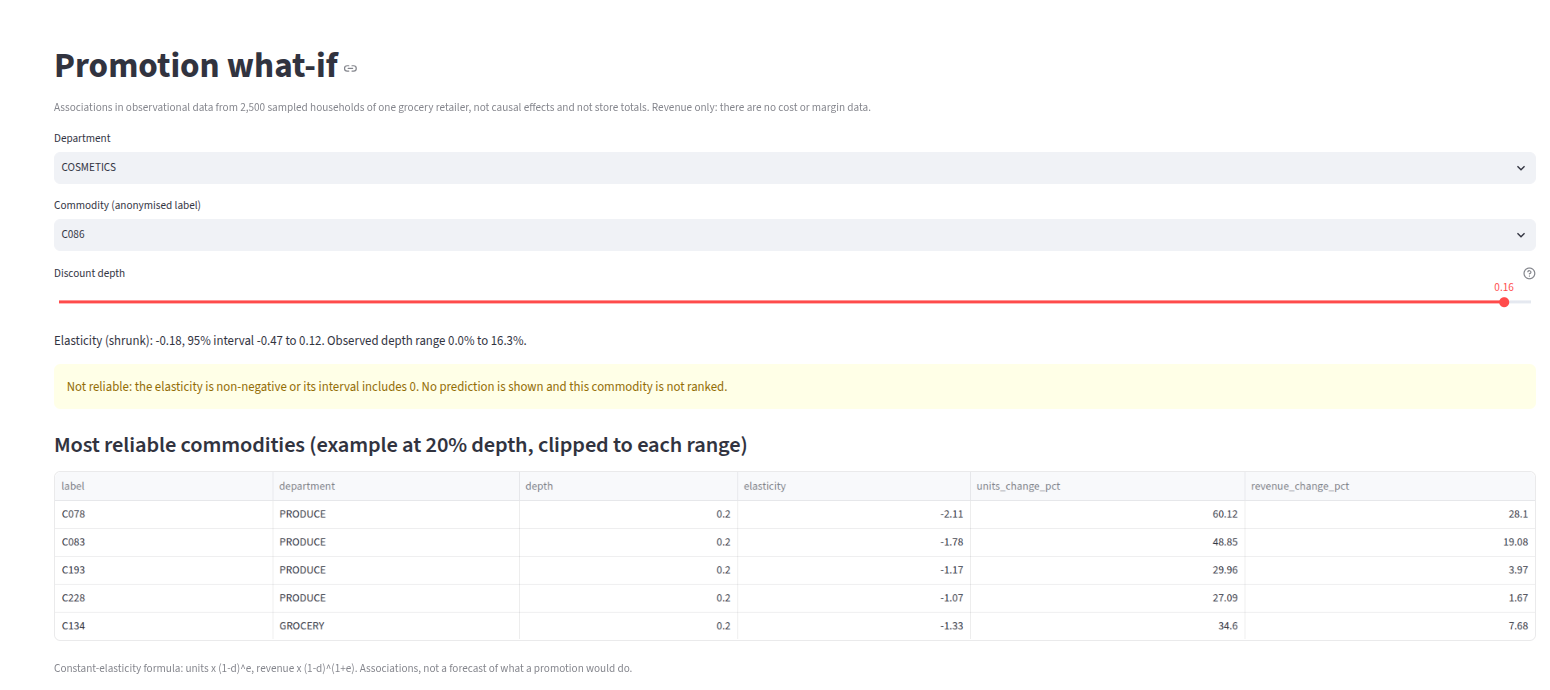
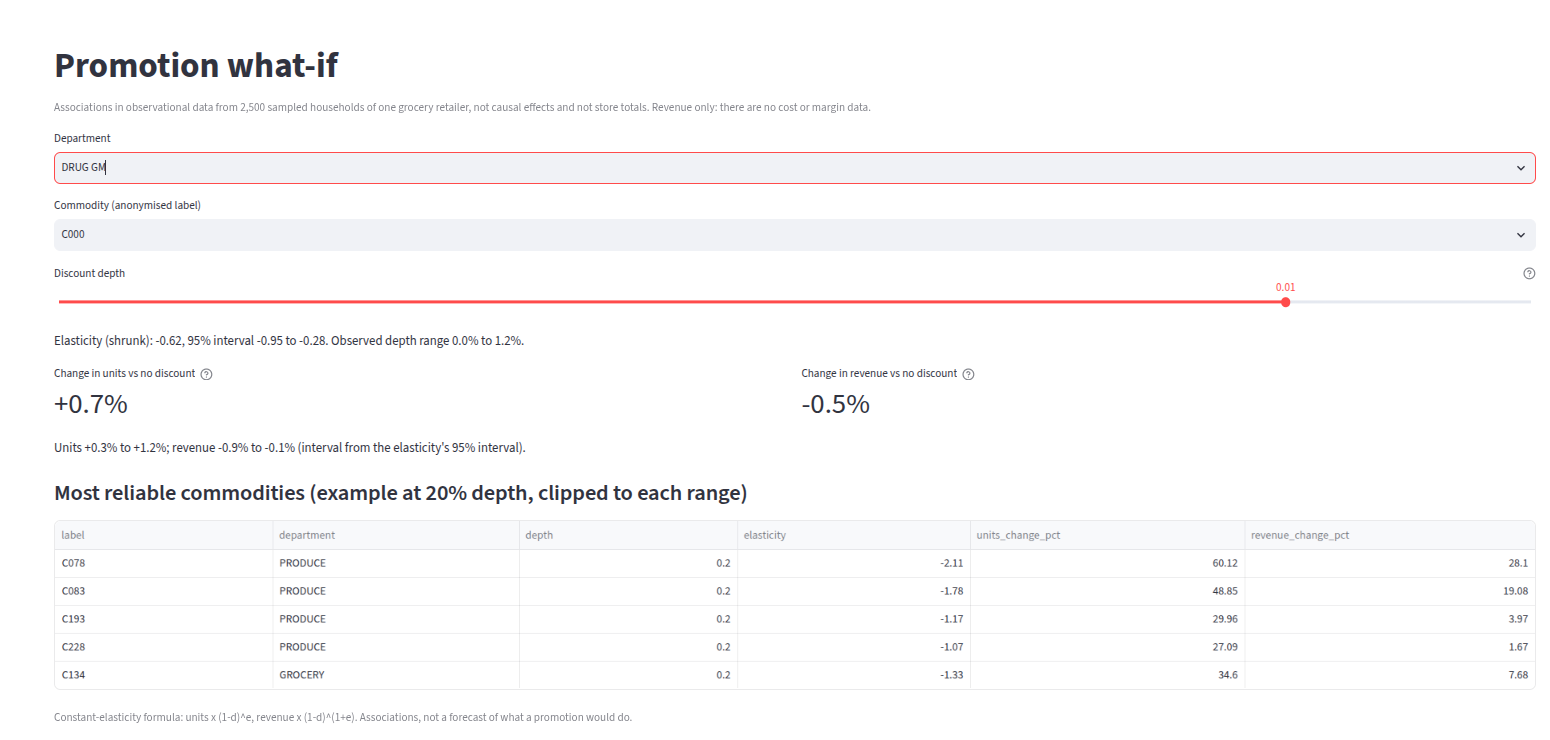
Update What-if screenshot

diff --git a/src/price_elasticity/readme.py b/src/price_elasticity/readme.py
@@ -151,8 +151,8 @@ def render():
              "Results page: primary and split elasticities and median shrunk elasticity by department (screenshot of the local Streamlit app, which reads only committed result files)."),
             ("results_out_of_sample.png", "Results page: out-of-sample validation and test table",
              "Out-of-sample check on validation and test weeks (screenshot of the local Streamlit app, which reads only committed result files)."),
-            ("whatif_simulator.png", "What-if page: not-reliable flag, elasticity interval and ranked commodities",
-             "What-if page: elasticity interval and the not-reliable flag for a commodity, and the most reliable commodities at 20% depth (screenshot of the local Streamlit app, which reads only committed result files).")]:
+            ("whatif_simulator.png", "What-if page: units and revenue interval for a reliable commodity",
+             "What-if page: the interval for the predicted change in units and revenue for a reliable commodity at a small discount, and the most reliable commodities at 20% depth (screenshot of the local Streamlit app, which reads only committed result files).")]:
         a(f"![{alt}](docs/images/{img})")
         a("")
         a(f"*{cap}*")

diff --git a/README.md b/README.md
@@ -83,9 +83,9 @@ For a commodity (anonymised label) and a discount depth inside its observed 5th-
 
 *Out-of-sample check on validation and test weeks (screenshot of the local Streamlit app, which reads only committed result files).*
 
-![What-if page: not-reliable flag, elasticity interval and ranked commodities](docs/images/whatif_simulator.png)
+![What-if page: units and revenue interval for a reliable commodity](docs/images/whatif_simulator.png)
 
-*What-if page: elasticity interval and the not-reliable flag for a commodity, and the most reliable commodities at 20% depth (screenshot of the local Streamlit app, which reads only committed result files).*
+*What-if page: the interval for the predicted change in units and revenue for a reliable commodity at a small discount, and the most reliable commodities at 20% depth (screenshot of the local Streamlit app, which reads only committed result files).*
 
 ## Limitations
 
